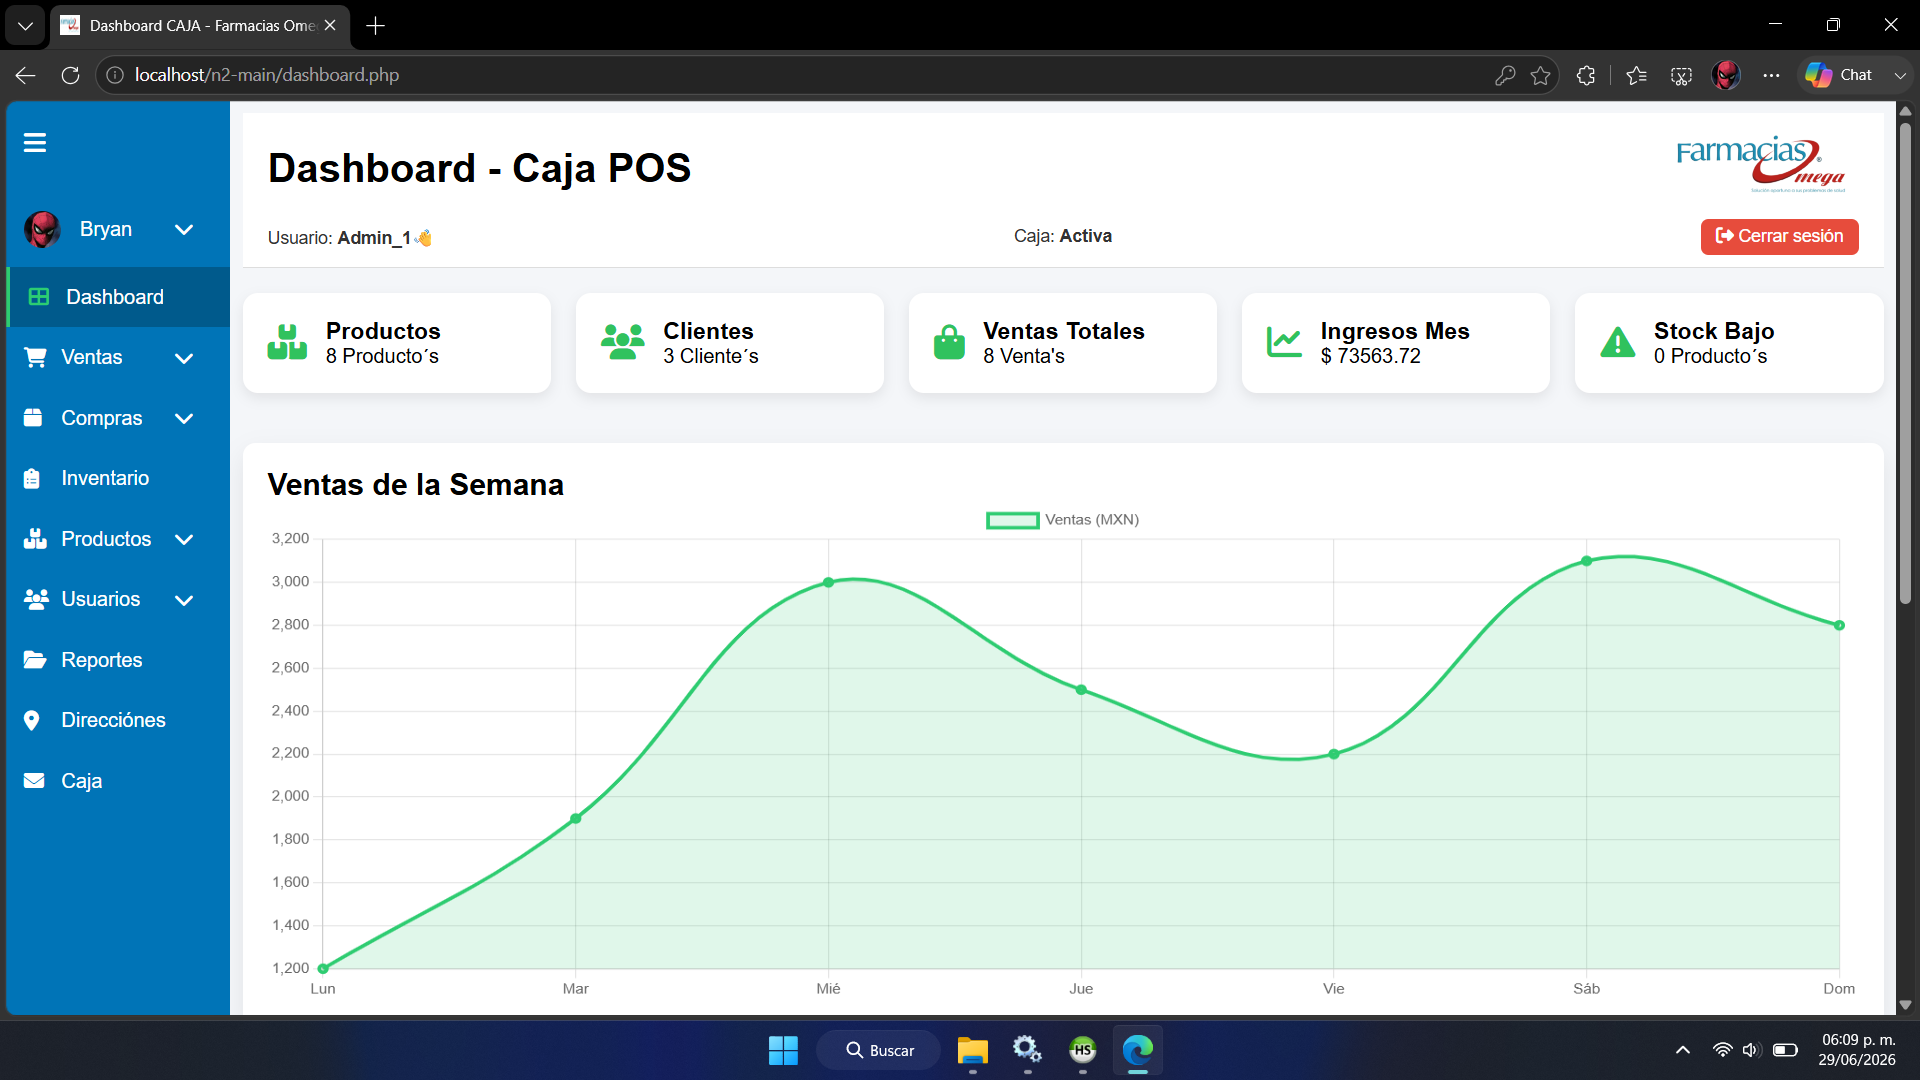
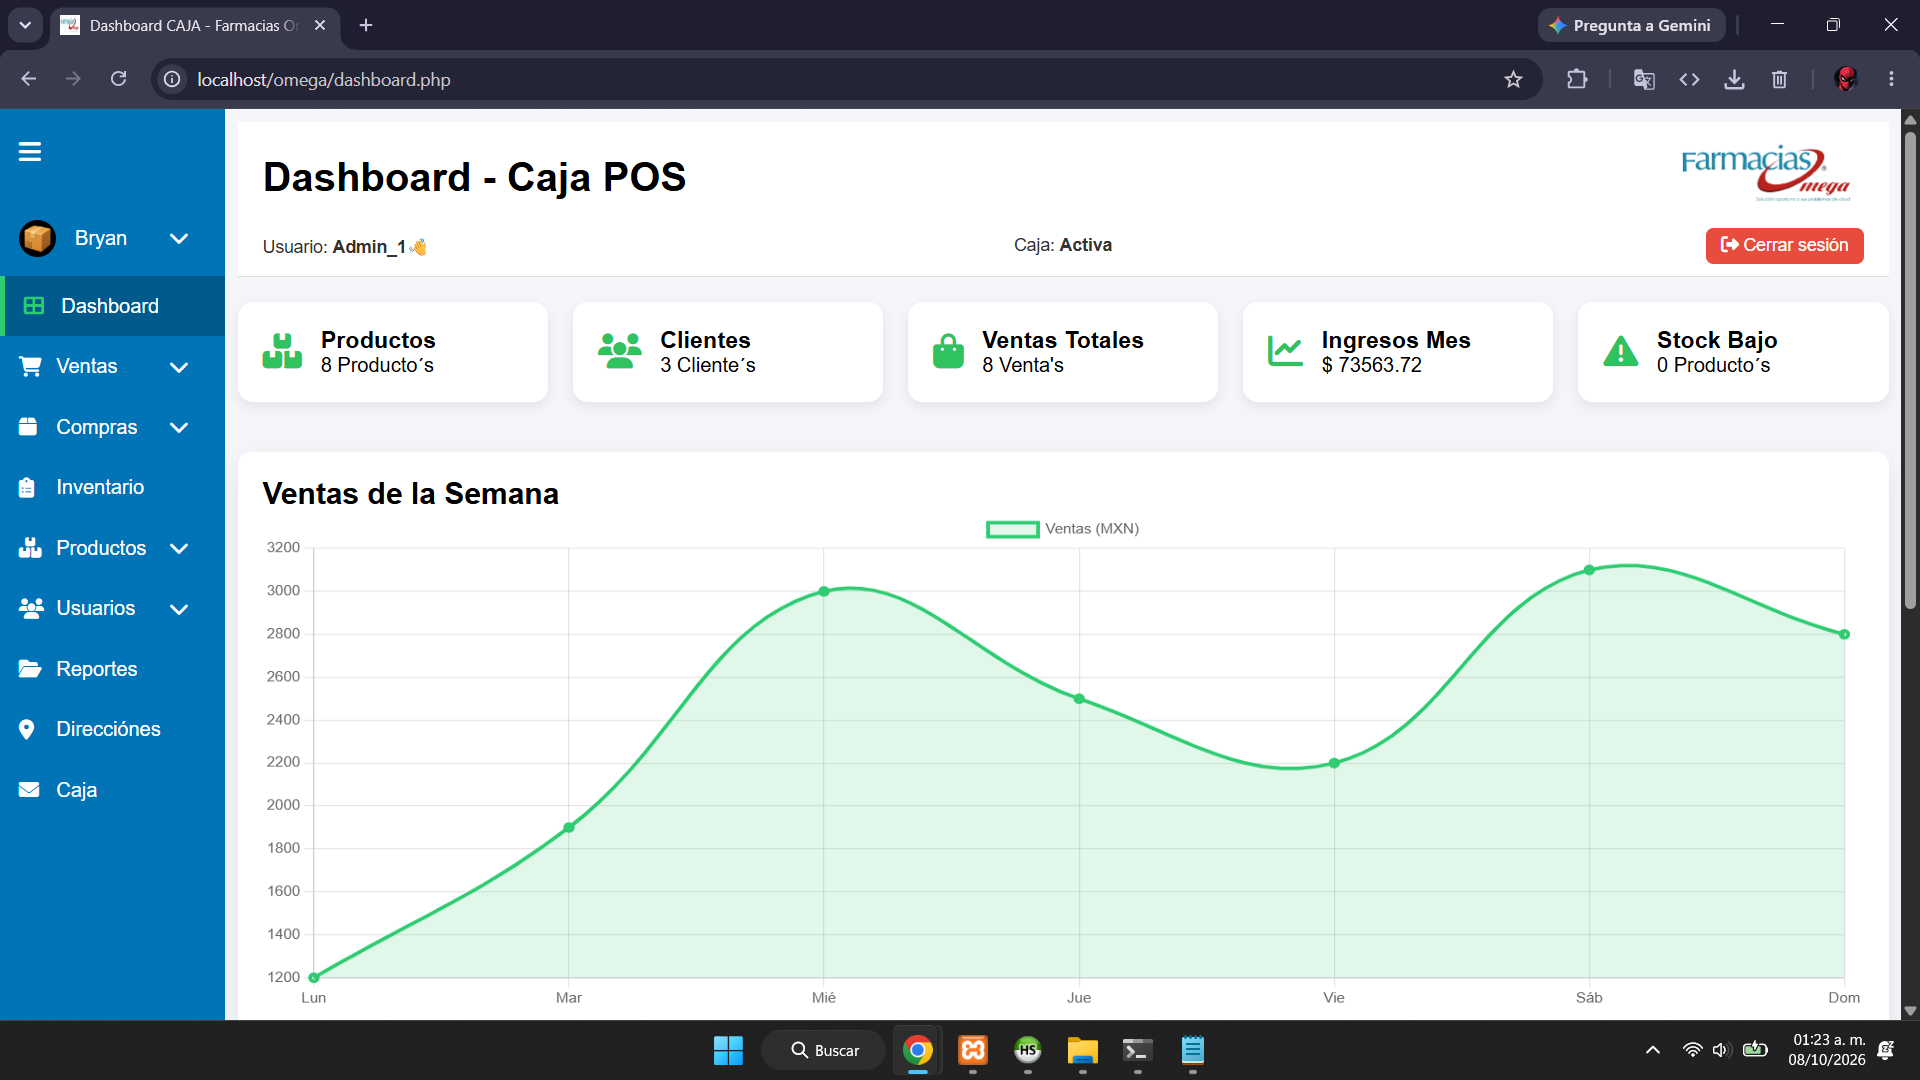
Descripciones

diff --git a/README.md b/README.md
@@ -1,6 +1,6 @@
 # 💊 FARMACIAS OMEGA
 
-![Dashboard](img/dashboard.png)
+!\[Dashboard](img/dashboard.png)
 
 **"Sistema Integral de Gestión Farmacéutica"**
 *Administración de ventas, inventario y operaciones*
@@ -10,7 +10,7 @@ Farmacias Omega es un sistema web diseñado para optimizar la gestión interna d
 
 Su objetivo es automatizar procesos administrativos y operativos, mejorando la organización, productividad y control del negocio.
 
----
+\---
 
 ## 🔹 Características
 
@@ -27,35 +27,39 @@ Su objetivo es automatizar procesos administrativos y operativos, mejorando la o
 * 📊 Dashboard con estadísticas y reportes
 * 🔐 Sistema de autenticación y control de acceso
 
----
+\---
 
 ## 🖼 Capturas
 
 ### Dashboard principal
 
-![Dashboard](img/dashboard.png)
-
-### Gestión de inventario
-
-![Inventario](img/1.png)
-
-### Gestión de ventas
-
-![Ventas](img/2.png)
+!\[Dashboard](img/dashboard.png)
 
 ### Gestión de productos
 
-![Productos](img/3.png)
+!\[Productos](img/productos.png)
 
-### Gestión de clientes
+### Gestión de proveedores
 
-![Clientes](img/4.png)
+!\[Clientes](img/proveedores.png)
 
-### Gestión de empleados
+### Gestión de usuarios
 
-![Empleados](img/5.png)
+!\[Empleados](img/usuarios.png)
 
----
+### Gestión de perfiles
+
+!\[Inventario](img/perfiles.png)
+
+### Gestión de ventas
+
+!\[Ventas](img/ventas.png)
+
+### Gestión de reportes
+
+!\[Ventas](img/reportes.png)
+
+\---
 
 ## ⚡ Tecnologías utilizadas
 
@@ -67,7 +71,7 @@ Su objetivo es automatizar procesos administrativos y operativos, mejorando la o
 * **Chart.js**
 * **XAMPP**
 
----
+\---
 
 ## 📂 Estructura del proyecto
 
@@ -77,10 +81,10 @@ FarmaciasOmega/
 │── css/                     # Archivos de estilos
 │── js/                      # Scripts JavaScript
 │── img/                     # Recursos visuales
-│── ima_productos/           # Imágenes de productos
-│── ima_usuarios/            # Imágenes de usuarios
-│── ima_empleados/           # Imágenes de empleados
-│── ima_proveedores/         # Imágenes de proveedores
+│── ima\\\_productos/           # Imágenes de productos
+│── ima\\\_usuarios/            # Imágenes de usuarios
+│── ima\\\_empleados/           # Imágenes de empleados
+│── ima\\\_proveedores/         # Imágenes de proveedores
 │── auth.php                 # Validación de sesión
 │── conexion.php             # Conexión a base de datos
 │── dashboard.php            # Panel principal
@@ -92,11 +96,11 @@ FarmaciasOmega/
 │── proveedores.php          # Gestión de proveedores
 │── empleados.php            # Gestión de empleados
 │── categorias.php           # Gestión de categorías
-│── productos_lista.php      # Lista de productos
+│── productos\\\_lista.php      # Lista de productos
 │── reportes.php             # Reportes del sistema
 ```
 
----
+\---
 
 ## 🚀 Instalación
 
@@ -125,14 +129,13 @@ conexion.php
 ```
 
 5. Inicia Apache y MySQL desde XAMPP.
-
 6. Abre en tu navegador:
 
 ```bash
 http://localhost/farmacias-omega
 ```
 
----
+\---
 
 ## 🔒 Seguridad
 
@@ -144,14 +147,15 @@ Farmacias Omega implementa:
 * Gestión segura de información
 * Restricción de acceso por roles
 
----
+\---
 
 ## 📌 Estado del proyecto
 
 🟢 En desarrollo activo
 
----
+\---
 
 ## 👨💻 Autor
 
-Desarrollado por **El_Inge**
+Desarrollado por **El\_Inge**
+
